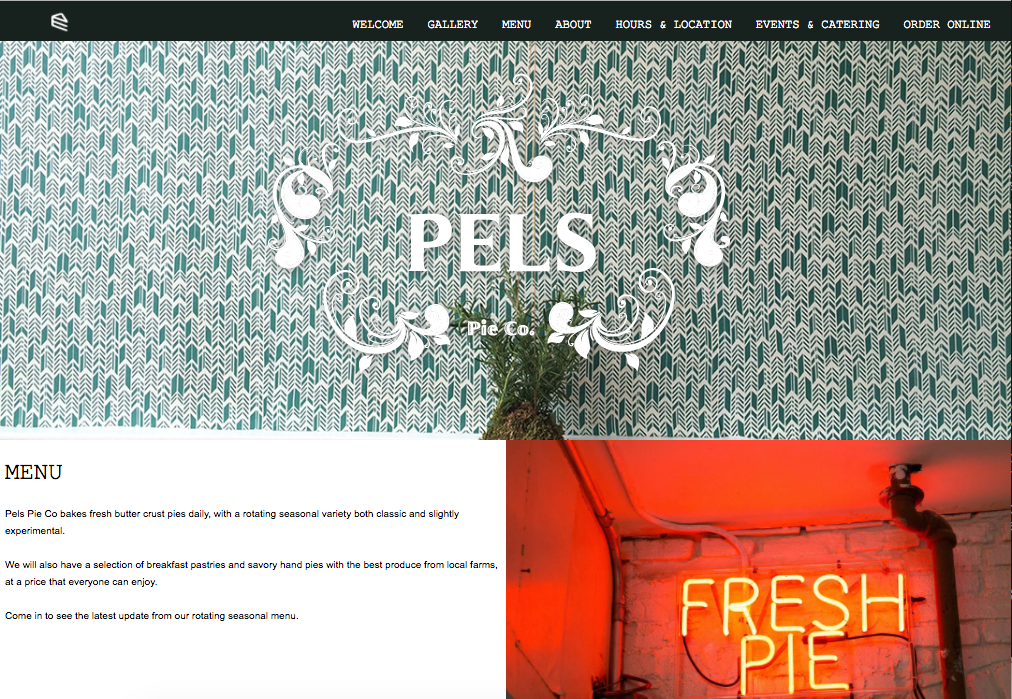
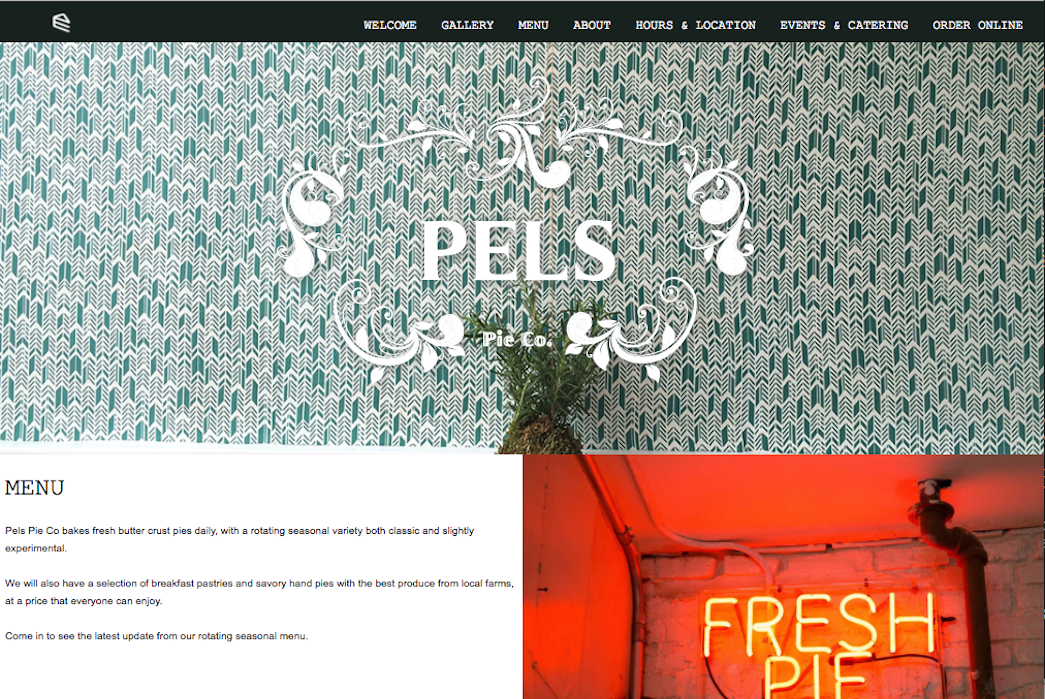
updated final project

diff --git a/index.html b/index.html
@@ -64,14 +64,15 @@
     </div>
     <div class="section" id="projects">
         <h1 class="title">PROJECTS</h1>
+        <h2 class="projectsSubHeading">(Click image for more info)</h2>
         <div class="projects">
+            <div class="project" data-toggle="modal" data-target="#mediaModal">
+                <h3 class="center">MEDIADDICT</h3>
+                <img src="./images/mediaddict.png" class="img-rounded img-responsive thumbnail">
+            </div>
             <div class="project" data-toggle="modal" data-target="#pelsModal">
                 <h3 class="center">PELS PIES</h3>
                 <img src="./images/pels.png" class="img-rounded img-responsive thumbnail">
-            </div>
-            <div class="project" data-toggle="modal" data-target="#scrabbleModal">
-                <h3 class="center">SCRABBLE</h3>
-                <img src="./images/scrabble.png" class="img-rounded img-responsive thumbnail">
             </div>
         </div>
         <div class="projects">
@@ -79,9 +80,9 @@
                 <h3 class="center">BAND ESSENTIALS</h3>
                 <img src="./images/band.png" class="img-rounded img-responsive thumbnail">
             </div>
-            <div class="project">
-                <h3 class="center">COMING SOON</h3>
-                <img src="./images/coming_soon.png" class="img-rounded img-responsive thumbnail">
+            <div class="project" data-toggle="modal" data-target="#scrabbleModal">
+                <h3 class="center">SCRABBLE</h3>
+                <img src="./images/scrabble.png" class="img-rounded img-responsive thumbnail">
             </div>
         </div>
     </div>
@@ -91,7 +92,7 @@
         <p class="smallText">Phone: 845-641-1004</p>
         <div class="social">
             <div class="github">
-                <a href="https://github.com/agottlie"><img src="./images/Github-Mark-64px.png"></a>
+                <a href="https://github.com/agottlie"><img src="./images/github.png"></a>
             </div>
             <div class="linkedin">
                 <a href="https://www.linkedin.com/in/andrew-gottlieb/"><img src="./images/linkedin.png"></a>
@@ -116,6 +117,7 @@
                     <img src="./images/inplay.png">
                     <img src="./images/Letters.png">
                     <a href="https://github.com/agottlie/scrabble"><img src="./images/Github.png"></a>
+                    <a href="https://agottlie.github.io/scrabble/">Deployed Version</a>
                 </div>
                 <div class="modal-footer">
                     <button type="button" class="btn btn-default" data-dismiss="modal">Close</button>
@@ -136,6 +138,7 @@
                     <img src="./images/events.png">
                     <img src="./images/order.png">
                     <a href="https://github.com/agottlie/pelspieco"><img src="./images/Github.png"></a>
+                    <a href="http://pelspieco.com/">Deployed Version</a>
                 </div>
                 <div class="modal-footer">
                     <button type="button" class="btn btn-default" data-dismiss="modal">Close</button>
@@ -164,15 +167,20 @@
             </div>
         </div>
     </div>
-    <div class="modal fade" id="scrabbleModal" tabindex="-1" role="dialog" aria-labelledby="myModalLabel">
+    <div class="modal fade" id="mediaModal" tabindex="-1" role="dialog" aria-labelledby="myModalLabel">
         <div class="modal-dialog" role="document">
             <div class="modal-content">
                 <div class="modal-header">
                     <button type="button" class="close" data-dismiss="modal" aria-label="Close"><span aria-hidden="true">&times;</span></button>
-                    <h4 class="modal-title" id="myModalLabel">Modal title</h4>
+                    <h4 class="modal-title" id="myModalLabel">MEDIADDICT APP</h4>
                 </div>
                 <div class="modal-body">
-                    Lorem ipsum dolor sit amet, consectetur adipisicing elit. Odit doloribus quos voluptate illum sit nesciunt pariatur unde doloremque! Commodi tenetur veniam nemo, officia! Molestiae officiis rem excepturi quia est aut.
+                    <h4>This is a full stack app for all the media addicts out there. There are so many shows to follow and new movies coming out every week, and sometimes it becomes a bit overwhelming to keep track of it all. mediAddict allows you to track your favorite pieces of media, know when they will be airing, and be able to read reviews/recaps about them after you've watched. The app makes use of MVC modeling, using a local database to store info on shows, movies, users, comments, and more, and accesses external APIs from TV Maze, TMDB, and NY Times Movie reviews. Show recaps are also scraped from the AVClub. Users can create accounts using an encrypted password; add and delete shows, movies and episodes; and track their viewing progress on a global leaderboard.</h4>
+                    <img src="./images/twinpeaks.png">
+                    <img src="./images/addshow.png">
+                    <img src="./images/leaderboard.png">
+                    <a href="https://github.com/agottlie/mediAddict"><img src="./images/Github.png"></a>
+                    <a href="http://mediaddict.surge.sh">Deployed Version</a>
                 </div>
                 <div class="modal-footer">
                     <button type="button" class="btn btn-default" data-dismiss="modal">Close</button>

diff --git a/css/bootstrap.min.css b/css/bootstrap.min.css
@@ -1375,18 +1375,6 @@ th {
     content: "\e260"
 }
 
-* {
-    -webkit-box-sizing: border-box;
-    -moz-box-sizing: border-box;
-    box-sizing: border-box
-}
-
-:after,
-:before {
-    -webkit-box-sizing: border-box;
-    -moz-box-sizing: border-box;
-    box-sizing: border-box
-}
 
 html {
     font-size: 10px;
@@ -5090,14 +5078,6 @@ textarea.input-group-sm>.input-group-btn>.btn {
     }
 }
 
-.container-fluid>.navbar-collapse,
-.container-fluid>.navbar-header,
-.container>.navbar-collapse,
-.container>.navbar-header {
-    margin-right: -15px;
-    margin-left: -15px
-}
-
 @media (min-width:768px) {
     .container-fluid>.navbar-collapse,
     .container-fluid>.navbar-header,
@@ -8047,12 +8027,11 @@ button.close {
 /*# sourceMappingURL=bootstrap.min.css.map */
 
 .section {
-    width: 90%;
+    width: 80vw;
     max-width: none;
     display: flex;
     align-items: center;
     flex-direction: column;
-    height: 90%;
     margin: 50px auto;
     padding: 30px;
 }
@@ -8065,6 +8044,7 @@ button.close {
     background-image: url("../images/bg.jpg");
     background-size: cover;
     background-repeat: no-repeat;
+    padding: 50px;
 }
 
 #intro {
@@ -8073,7 +8053,7 @@ button.close {
 }
 
 .smallText {
-    font-size: 2.5vw;
+    font-size: 2vw;
     text-align: justify;
 }
 
@@ -8091,50 +8071,10 @@ button.close {
 
 body {
     font-family: 'Pridi', serif;
-    background: linear-gradient(0deg, #1a936f, #88d498, #c6dabf);
-    background-size: 600% 600%;
-    -webkit-animation: AnimationName 14s ease infinite;
-    -moz-animation: AnimationName 14s ease infinite;
-    animation: AnimationName 14s ease infinite;
+    background-color: white;
     display: flex;
     align-items: center;
     flex-direction: column;
-}
-
-@-webkit-keyframes AnimationName {
-    0% {
-        background-position: 51% 0%
-    }
-    50% {
-        background-position: 50% 100%
-    }
-    100% {
-        background-position: 51% 0%
-    }
-}
-
-@-moz-keyframes AnimationName {
-    0% {
-        background-position: 51% 0%
-    }
-    50% {
-        background-position: 50% 100%
-    }
-    100% {
-        background-position: 51% 0%
-    }
-}
-
-@keyframes AnimationName {
-    0% {
-        background-position: 51% 0%
-    }
-    50% {
-        background-position: 50% 100%
-    }
-    100% {
-        background-position: 51% 0%
-    }
 }
 
 .center {
@@ -8215,6 +8155,11 @@ body {
     margin-bottom: 10px;
 }
 
+.projectsSubHeading {
+    margin-top: -10px;
+    font-size: 1.7vw;
+}
+
 
 
 /*NAV BAR*/
@@ -8248,4 +8193,29 @@ body {
 
 .navbar>.container {
     width: 100vw;
+}
+
+.collapse.navbar-collapse {
+    float: right;
+}
+
+@media (max-width: 700px) {
+    .section {
+        width: 70vw;
+    }
+}
+
+
+@media (max-width: 500px) {
+    .label {
+        width: 200px;
+        height: 15px;
+        font-size: 12px;
+        padding-top: 3px;
+        margin-bottom: 5px;
+    }
+
+    .projects {
+        width: 90vw;
+    }
 }
